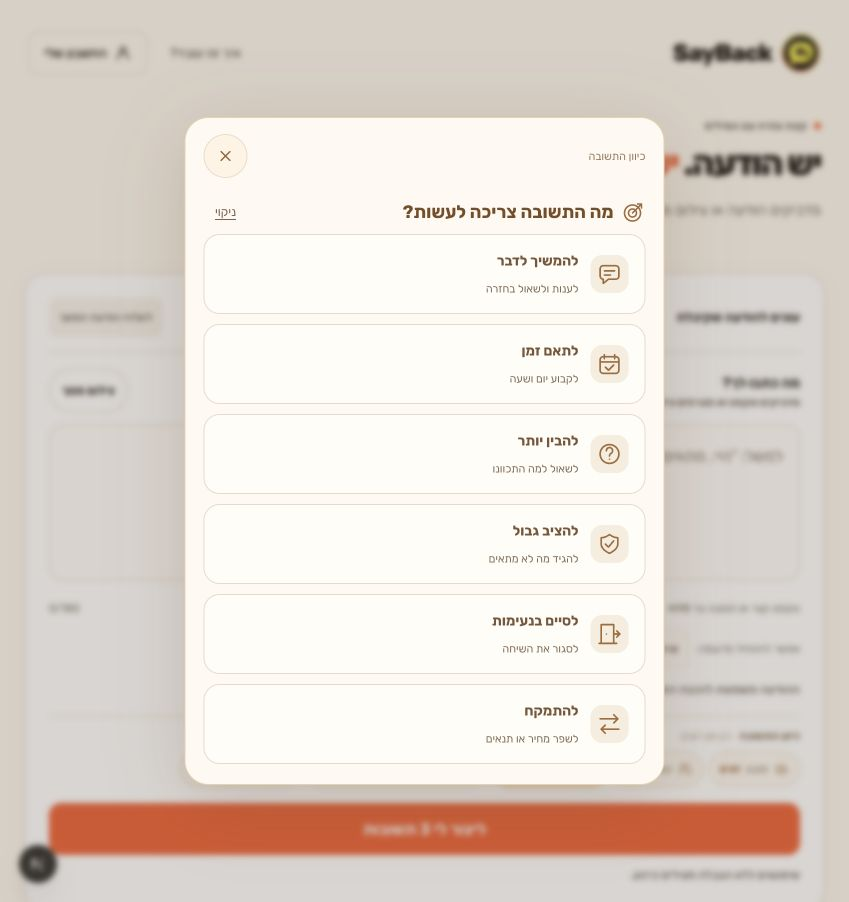
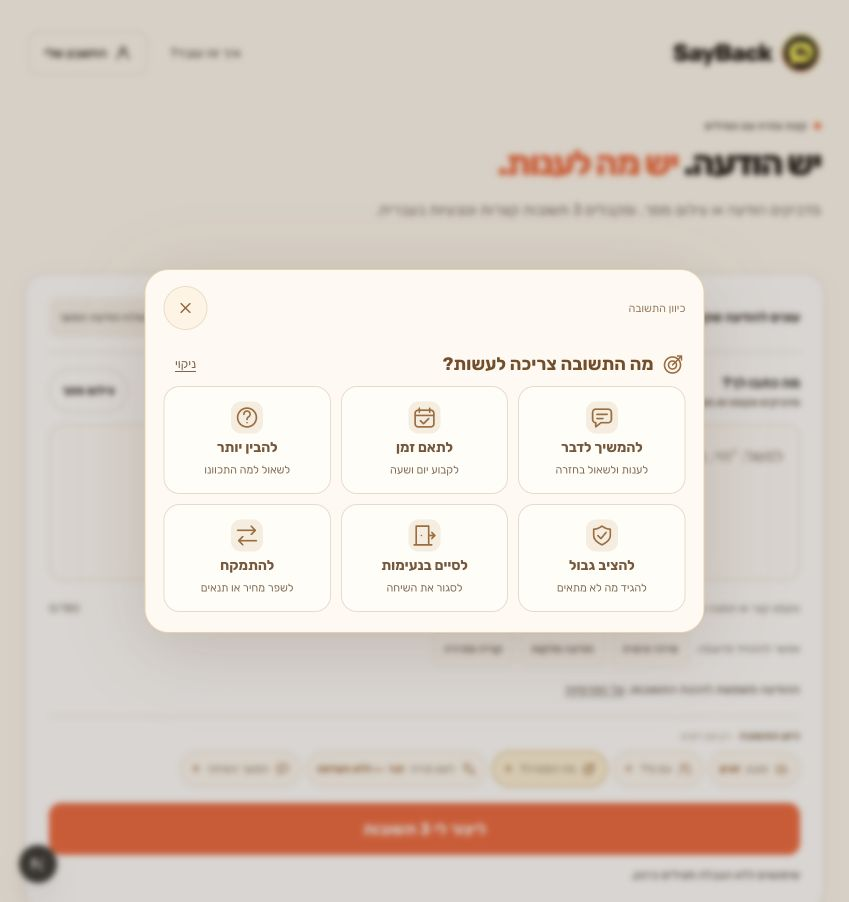
fix: compact reply directions into responsive card grids

Changed region(s): [[0.1531, 0.1242, 0.8269, 0.9002], [0.4594, 0.4346, 0.5512, 0.5277]]

diff --git a/components/reply-direction-controls.css b/components/reply-direction-controls.css
@@ -107,8 +107,8 @@
 .sb-direction-editor-heading h3 > svg { flex: 0 0 24px; color: #a36a38; }
 .sb-direction-intro { margin: 2px 0 16px; font-size: 12px; line-height: 20px; color: #8c7157; }
 .sb-direction-dialog .sb-direction-options { display: grid; grid-template-columns: repeat(2, minmax(0, 1fr)); gap: 10px; }
-.sb-direction-dialog .sb-direction-option { position: relative; flex-direction: column; gap: 6px; min-height: 126px; padding: 14px 10px 12px; border-radius: 16px; line-height: 20px; }
-.sb-choice-icon { display: flex; align-items: center; justify-content: center; width: 38px; height: 38px; border-radius: 12px; background: #f6eddf; color: #a36a38; }
+.sb-direction-dialog .sb-direction-option { position: relative; flex-direction: column; gap: 4px; min-height: 108px; padding: 10px 8px; border-radius: 16px; line-height: 20px; }
+.sb-choice-icon { display: flex; align-items: center; justify-content: center; width: 32px; height: 32px; border-radius: 10px; background: #f6eddf; color: #a36a38; }
 .sb-choice-icon > svg { width: 25px; height: 25px; }
 .sb-direction-option[aria-pressed="true"] .sb-choice-icon { background: #ffe0a0; color: #8b4b17; }
 .sb-direction-option-label { font-size: 14px; font-weight: 700; }
@@ -117,19 +117,17 @@
 .sb-direction-dialog .sb-direction-monthly { display: inline-flex; align-items: center; gap: 3px; padding: 2px 6px; border-radius: 6px; background: #f3e7d5; font-size: 10px; line-height: 14px; }
 .sb-direction-option[data-locked] { border-style: dashed; }
 .sb-direction-notice { margin: 0 0 12px; }
-.sb-direction-section[data-field="continue"] .sb-direction-options,
-.sb-direction-section[data-field="goal"] .sb-direction-options { grid-template-columns: 1fr; }
-.sb-direction-section[data-field="continue"] .sb-direction-option,
-.sb-direction-section[data-field="goal"] .sb-direction-option { display: grid; grid-template-columns: 38px 1fr; column-gap: 12px; row-gap: 2px; min-height: 80px; text-align: right; padding: 12px 16px 12px 30px; }
-.sb-direction-section[data-field="continue"] .sb-choice-icon,
-.sb-direction-section[data-field="goal"] .sb-choice-icon { grid-row: 1 / 3; }
-.sb-direction-section[data-field="continue"] .sb-choice-description,
-.sb-direction-section[data-field="goal"] .sb-choice-description { grid-column: 2; }
 .sb-direction-background textarea { border-radius: 16px; min-height: 132px; padding: 12px; border-color: #eadbc9; background: #fffdf8; }
 .sb-direction-background label { margin-bottom: 10px; font-weight: 600; font-size: 14px; }
 .sb-direction-background .sb-direction-help { margin-top: 10px; line-height: 20px; }
 @media (max-width: 767px) {
   .sb-direction-dialog { bottom: max(12px, env(safe-area-inset-bottom)); }
+}
+@media (min-width: 600px) {
+  .sb-direction-dialog { width: min(560px, calc(100vw - 24px)); }
+  .sb-direction-section[data-field="tone"] .sb-direction-options,
+  .sb-direction-section[data-field="context"] .sb-direction-options,
+  .sb-direction-section[data-field="goal"] .sb-direction-options { grid-template-columns: repeat(3, minmax(0, 1fr)); }
 }
 @media (hover: hover) {
   .sb-direction-dialog .sb-direction-option:hover { border-color: #d6b58e; background: #fff5e4; }

diff --git a/README.md b/README.md
@@ -49,7 +49,7 @@ No time is selected by default.
 ## What it does
 
 - **Three suggestions per request:** a short interpretation of the incoming message plus exactly three Hebrew replies.
-- **Compact reply directions:** a compact composer toolbar opening focused dialogs for tone, context, goal, grammatical preferences, conversation continuation and background. Every option has a custom SVG icon, a short Hebrew label and a practical subtitle in the warm cream/orange palette. Tone/context use two-column cards; goals and continuation use wide rows. Long lists scroll inside the dialog with the close control remaining visible. Selected values stay visible in the category buttons; selecting an option closes the dialog without advancing to another category, except grammatical preferences, which stay open until both questions have been chosen during that visit. Speaker grammatical preference is remembered in this browser; recipient preference stays temporary; all 10 tones and 12 contexts remain available under their existing access rules. Selected values and explicit resets stay visible, including grammatical preferences. Monthly features require a monthly subscription.
+- **Compact reply directions:** a compact composer toolbar opening focused dialogs for tone, context, goal, grammatical preferences, conversation continuation and background. Every option has a custom SVG icon, a short Hebrew label and a practical subtitle in the warm cream/orange palette. Tone, context and goals use compact cards: two columns on phones and three from 600px wide; continuation uses two side-by-side cards. All six incoming goals fit without scrolling at 320×568 and at 849×902, while keeping their short descriptions visible. Language preferences retain their two-part guided flow. Long lists scroll inside the dialog with the close control remaining visible. Selected values stay visible in the category buttons; selecting an option closes the dialog without advancing to another category, except grammatical preferences, which stay open until both questions have been chosen during that visit. Speaker grammatical preference is remembered in this browser; recipient preference stays temporary; all 10 tones and 12 contexts remain available under their existing access rules. Selected values and explicit resets stay visible, including grammatical preferences. Monthly features require a monthly subscription.
 - **Refinement:** soften, sharpen, regenerate, or give a custom rewriting instruction. Editing the request marks previous results as outdated; refining a result keeps its original request context.
 - **Follow-ups:** draft a message when someone has not replied, using the last outgoing message and elapsed time.
 - **Text or screenshot input:** image understanding is available through the configured OpenAI mode; local free mode is rule-based and does not read image contents.
